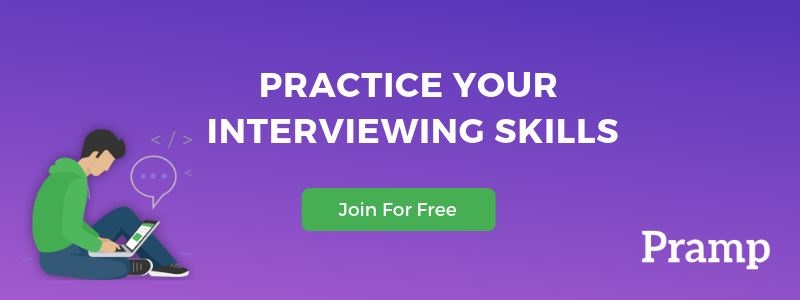
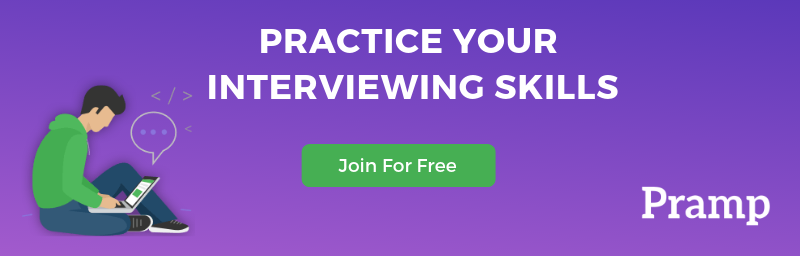
adjust feature images

diff --git a/public/post/h2o/index.html b/public/post/h2o/index.html
@@ -28,7 +28,7 @@
   
     
   
-  <meta name="description" content="My first-time experience with using H2O Flow">
+  <meta name="description" content="A new user&#39;s experience with H2O Flow">
 
   
   <link rel="alternate" hreflang="en-us" href="/post/h2o/">
@@ -122,12 +122,12 @@
   <meta property="og:site_name" content="Zhi Yang">
   <meta property="og:url" content="/post/h2o/">
   <meta property="og:title" content="My experience with using H2O Flow | Zhi Yang">
-  <meta property="og:description" content="My first-time experience with using H2O Flow"><meta property="og:image" content="/post/h2o/featured.png">
+  <meta property="og:description" content="A new user&#39;s experience with H2O Flow"><meta property="og:image" content="/post/h2o/featured.png">
   <meta property="og:locale" content="en-us">
   
   <meta property="article:published_time" content="2019-04-25T00:00:00&#43;00:00">
   
-  <meta property="article:modified_time" content="2019-04-25T00:00:00-08:00">
+  <meta property="article:modified_time" content="2019-04-25T00:00:00&#43;00:00">
   
 
   
@@ -339,7 +339,7 @@ MathJax.Hub.Config({
 
 
 <div class="article-header d-xl-none">
-  <div class="featured-image" style="background-image: url('/post/h2o/featured_hubc056b8cb0ea609375616c8a23da7931_25782_800x0_resize_lanczos_2.png');"></div>
+  <div class="featured-image" style="background-image: url('/post/h2o/featured_hu4a94cc50bc7417f113c0f97ebff69860_28629_800x0_resize_lanczos_2.png');"></div>
   
 </div>
 
@@ -359,7 +359,7 @@ MathJax.Hub.Config({
 
 
 <meta content="2019-04-25 00:00:00 &#43;0000 UTC" itemprop="datePublished">
-<meta content="2019-04-25 00:00:00 -0800 -0800" itemprop="dateModified">
+<meta content="2019-04-25 00:00:00 &#43;0000 UTC" itemprop="dateModified">
 
 <div class="article-metadata">
 
@@ -392,8 +392,6 @@ MathJax.Hub.Config({
   <span class="article-date">
     
     
-      
-          Last updated on
       
     
     <time>Apr 25, 2019</time>
@@ -483,7 +481,7 @@ MathJax.Hub.Config({
     </div>
     <div class="col-6">
       <div class="split-header-image">
-        <img src="/post/h2o/featured_hubc056b8cb0ea609375616c8a23da7931_25782_680x500_fill_q90_lanczos_smart1_2.png" itemprop="image" alt="">
+        <img src="/post/h2o/featured_hu4a94cc50bc7417f113c0f97ebff69860_28629_680x500_fill_q90_lanczos_left_2.png" itemprop="image" alt="">
         
       </div>
     </div>
@@ -502,7 +500,7 @@ MathJax.Hub.Config({
 
 
 <meta content="2019-04-25 00:00:00 &#43;0000 UTC" itemprop="datePublished">
-<meta content="2019-04-25 00:00:00 -0800 -0800" itemprop="dateModified">
+<meta content="2019-04-25 00:00:00 &#43;0000 UTC" itemprop="dateModified">
 
 <div class="article-metadata">
 
@@ -535,8 +533,6 @@ MathJax.Hub.Config({
   <span class="article-date">
     
     
-      
-          Last updated on
       
     
     <time>Apr 25, 2019</time>
@@ -715,12 +711,6 @@ java -jar h2o.jar
     
 
 
-<div class="article-tags">
-  
-  <a class="badge badge-light" href="/tags/r-rstudio/">R, RStudio</a>
-  
-</div>
-
 
 
 
@@ -846,16 +836,6 @@ java -jar h2o.jar
 
 
       
-      
-      <div class="article-widget">
-        <div class="hr-light"></div>
-        <h3>Related</h3>
-        <ul>
-          
-          <li><a href="/post/hexwall/">Learn how to make a header with R hex-stickers for LinkedIn and Twitter</a></li>
-          
-        </ul>
-      </div>
       
     
 

diff --git a/public/index.html b/public/index.html
@@ -1688,7 +1688,7 @@ MathJax.Hub.Config({
 
     
     <div class="article-style" itemprop="articleBody">
-      My first-time experience with using H2O Flow
+      A new user&rsquo;s experience with H2O Flow
     </div>
     
 
@@ -1702,7 +1702,7 @@ MathJax.Hub.Config({
 
 
 <meta content="2019-04-25 00:00:00 &#43;0000 UTC" itemprop="datePublished">
-<meta content="2019-04-25 00:00:00 -0800 -0800" itemprop="dateModified">
+<meta content="2019-04-25 00:00:00 &#43;0000 UTC" itemprop="dateModified">
 
 <div class="article-metadata">
 
@@ -1735,8 +1735,6 @@ MathJax.Hub.Config({
   <span class="article-date">
     
     
-      
-          Last updated on
       
     
     <time>Apr 25, 2019</time>
@@ -1772,7 +1770,7 @@ MathJax.Hub.Config({
     
     
     <a href="/post/h2o/">
-      <img src="/post/h2o/featured_hubc056b8cb0ea609375616c8a23da7931_25782_150x0_resize_lanczos_2.png" itemprop="image">
+      <img src="/post/h2o/featured_hu4a94cc50bc7417f113c0f97ebff69860_28629_150x0_resize_lanczos_2.png" itemprop="image">
     </a>
     
   </div>
@@ -2365,7 +2363,7 @@ MathJax.Hub.Config({
           
           
           
-          <a href="/tags/r-rstudio/" style="font-size:1.336290290535739rem">R, RStudio</a>
+          <a href="/tags/r-rstudio/" style="font-size:0.8rem">R, RStudio</a>
         
           
           

diff --git a/public/post/index.html b/public/post/index.html
@@ -383,7 +383,7 @@ MathJax.Hub.Config({
 
     
     <div class="article-style" itemprop="articleBody">
-      My first-time experience with using H2O Flow
+      A new user&rsquo;s experience with H2O Flow
     </div>
     
 
@@ -397,7 +397,7 @@ MathJax.Hub.Config({
 
 
 <meta content="2019-04-25 00:00:00 &#43;0000 UTC" itemprop="datePublished">
-<meta content="2019-04-25 00:00:00 -0800 -0800" itemprop="dateModified">
+<meta content="2019-04-25 00:00:00 &#43;0000 UTC" itemprop="dateModified">
 
 <div class="article-metadata">
 
@@ -430,8 +430,6 @@ MathJax.Hub.Config({
   <span class="article-date">
     
     
-      
-          Last updated on
       
     
     <time>Apr 25, 2019</time>
@@ -467,7 +465,7 @@ MathJax.Hub.Config({
     
     
     <a href="/post/h2o/">
-      <img src="/post/h2o/featured_hubc056b8cb0ea609375616c8a23da7931_25782_150x0_resize_lanczos_2.png" itemprop="image">
+      <img src="/post/h2o/featured_hu4a94cc50bc7417f113c0f97ebff69860_28629_150x0_resize_lanczos_2.png" itemprop="image">
     </a>
     
   </div>

diff --git a/public/tags/r-rstudio/index.html b/public/tags/r-rstudio/index.html
@@ -127,7 +127,7 @@
   <meta property="og:description" content="Zhi Yang&#39;s personal website"><meta property="og:image" content="/img/share.png">
   <meta property="og:locale" content="en-us">
   
-  <meta property="og:updated_time" content="2019-04-25T00:00:00&#43;00:00">
+  <meta property="og:updated_time" content="2019-01-29T00:00:00&#43;00:00">
   
 
   
@@ -356,15 +356,6 @@ MathJax.Hub.Config({
   
 
   
-  
-  <div>
-    <h2><a href="/post/h2o/">My experience with using H2O Flow</a></h2>
-    <div class="article-style">
-      
-      My first-time experience with using H2O Flow
-      
-    </div>
-  </div>
   
   <div>
     <h2><a href="/post/hexwall/">Learn how to make a header with R hex-stickers for LinkedIn and Twitter</a></h2>

diff --git a/public/post/pramp/index.html b/public/post/pramp/index.html
@@ -483,7 +483,7 @@ MathJax.Hub.Config({
     </div>
     <div class="col-6">
       <div class="split-header-image">
-        <img src="/post/pramp/featured_hua1e9cd81b9f905072dd329cc34adffa4_57972_680x500_fill_q90_lanczos_smart1_2.png" itemprop="image" alt="">
+        <img src="/post/pramp/featured_hua1e9cd81b9f905072dd329cc34adffa4_57972_680x500_fill_q90_lanczos_left_2.png" itemprop="image" alt="">
         
       </div>
     </div>

diff --git a/content/post/H2O/index.md b/content/post/H2O/index.md
@@ -3,16 +3,13 @@ authors:
 - admin
 date: "2019-04-25"
 draft: false
-gallery_item:
 image:
   caption: ''
-  focal_point: ""
+  focal_point: "left"
   preview_only: false
-lastmod: "2019-04-25T00:00:00-08:00"
 subtitle: 'A web-based interactive notebook-like computational environment.'
-summary: My first-time experience with using H2O Flow
-tags:
-- R, RStudio
+summary: A new user's experience with H2O Flow
+tags: []
 title: 'My experience with using H2O Flow'
 ---
 

diff --git a/content/post/hexwall/index.md b/content/post/hexwall/index.md
@@ -6,7 +6,7 @@ draft: false
 gallery_item:
 image:
   caption: ''
-  focal_point: ""
+  focal_point: "smart"
   preview_only: false
 lastmod: "2019-04-03T00:00:00-08:00"
 subtitle: 'Create a beautifully and professional header'

diff --git a/content/post/pramp/index.md b/content/post/pramp/index.md
@@ -6,7 +6,7 @@ draft: false
 gallery_item:
 image:
   caption: ''
-  focal_point: ""
+  focal_point: "left"
   preview_only: false
 lastmod: "2019-04-04T00:00:00-08:00"
 subtitle: 'for the first time'
